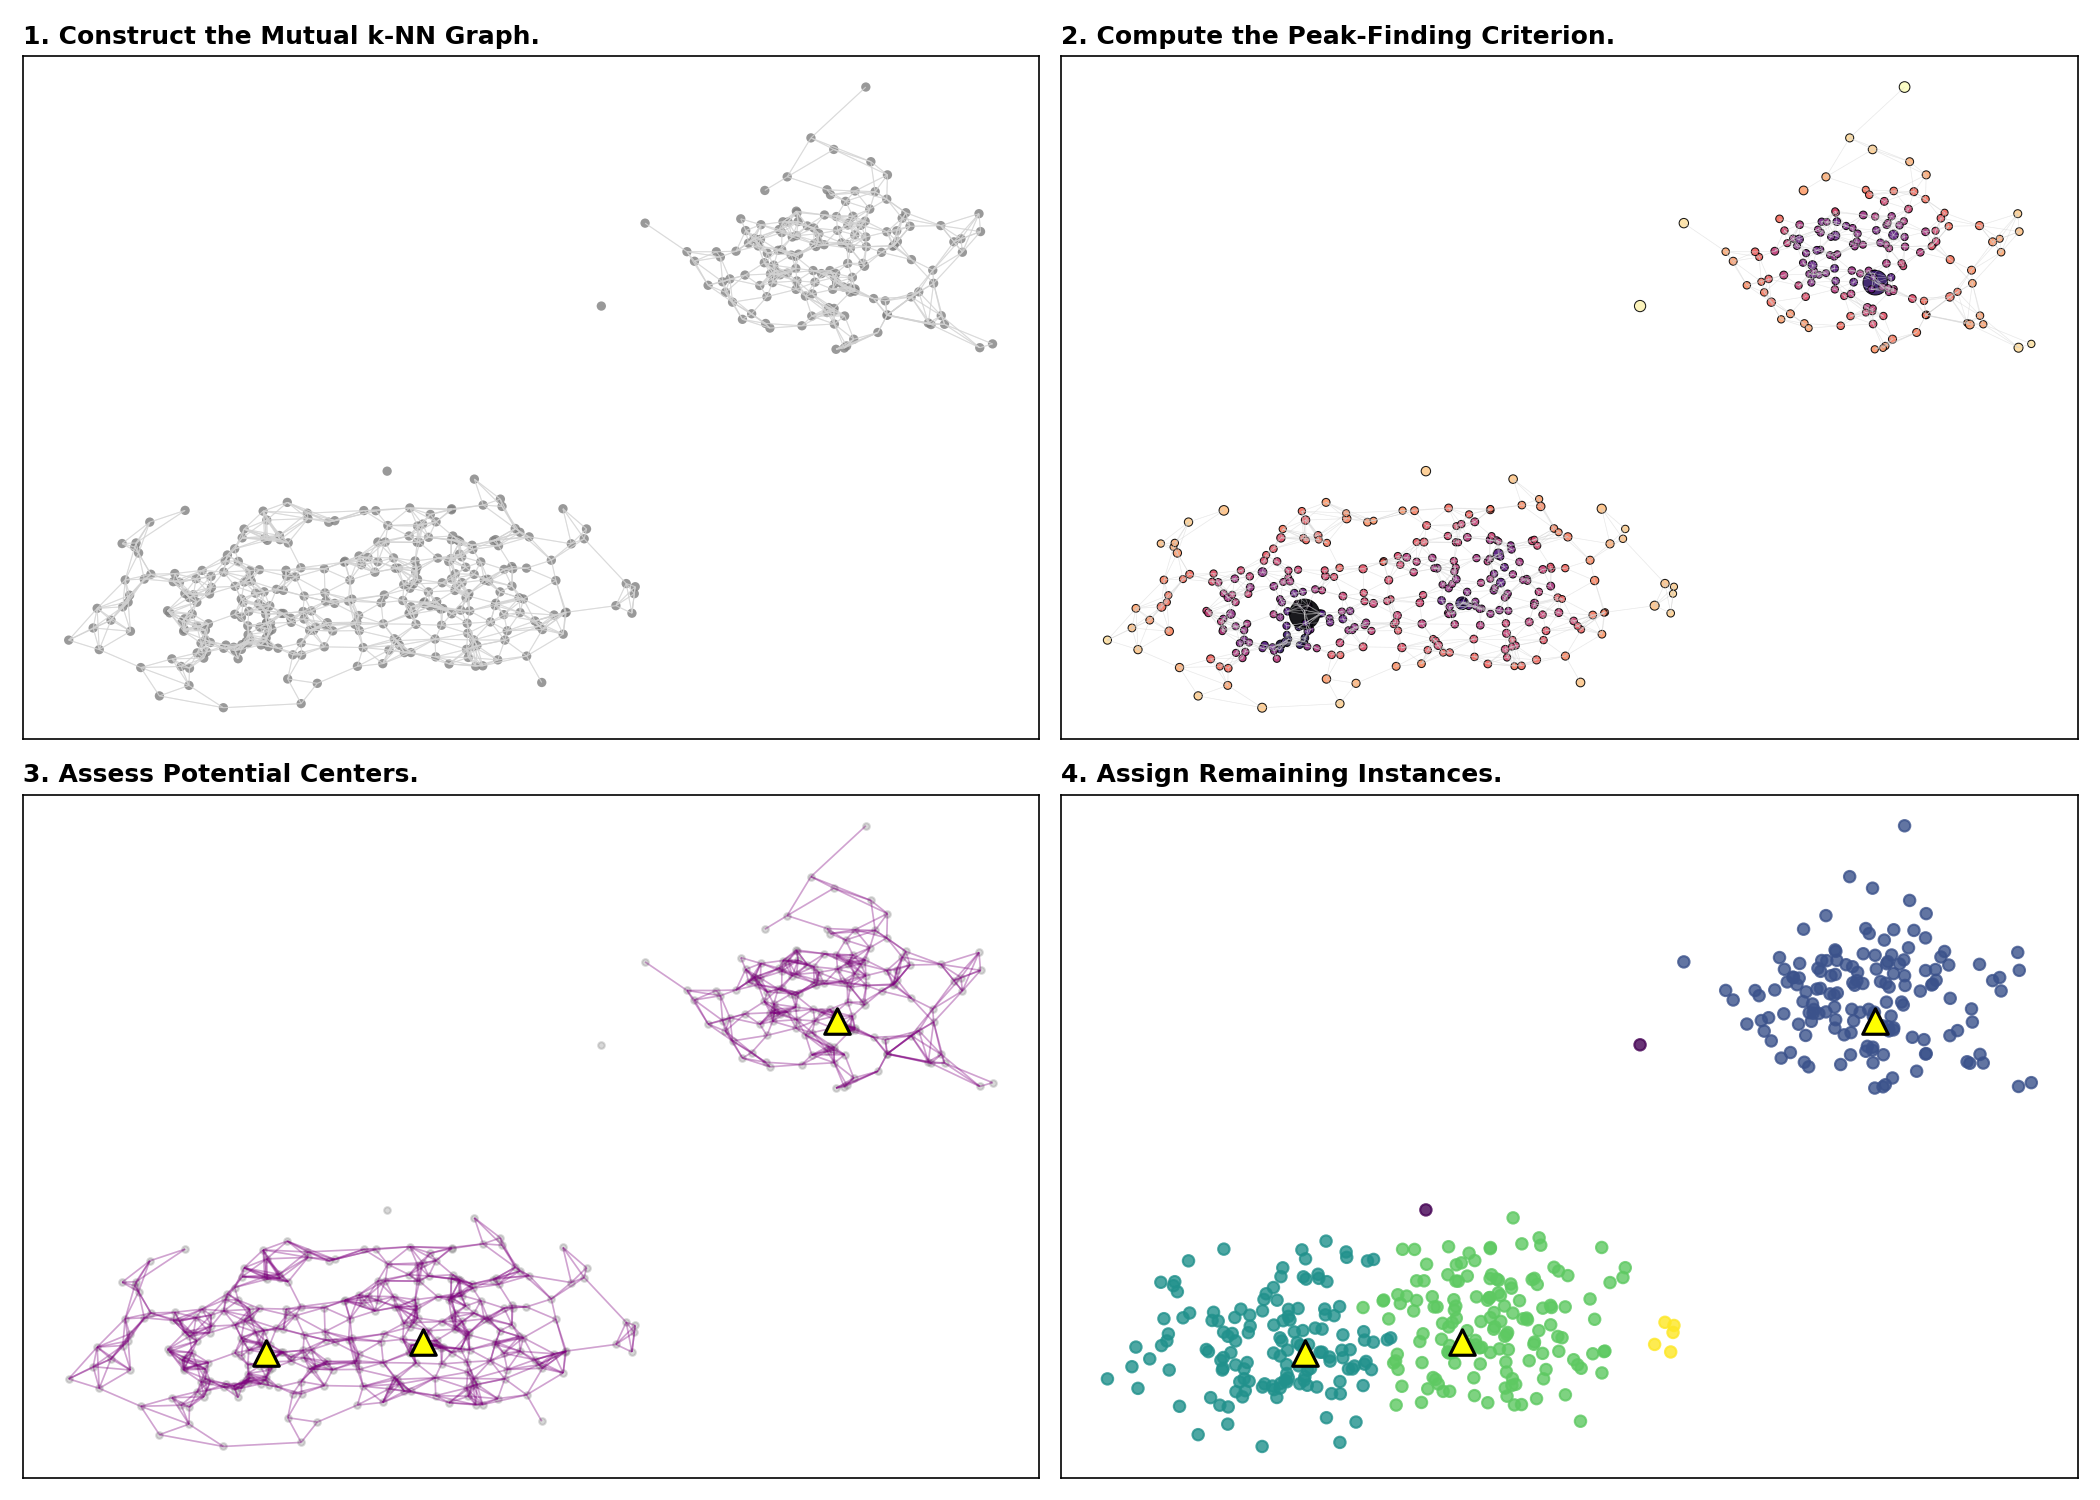
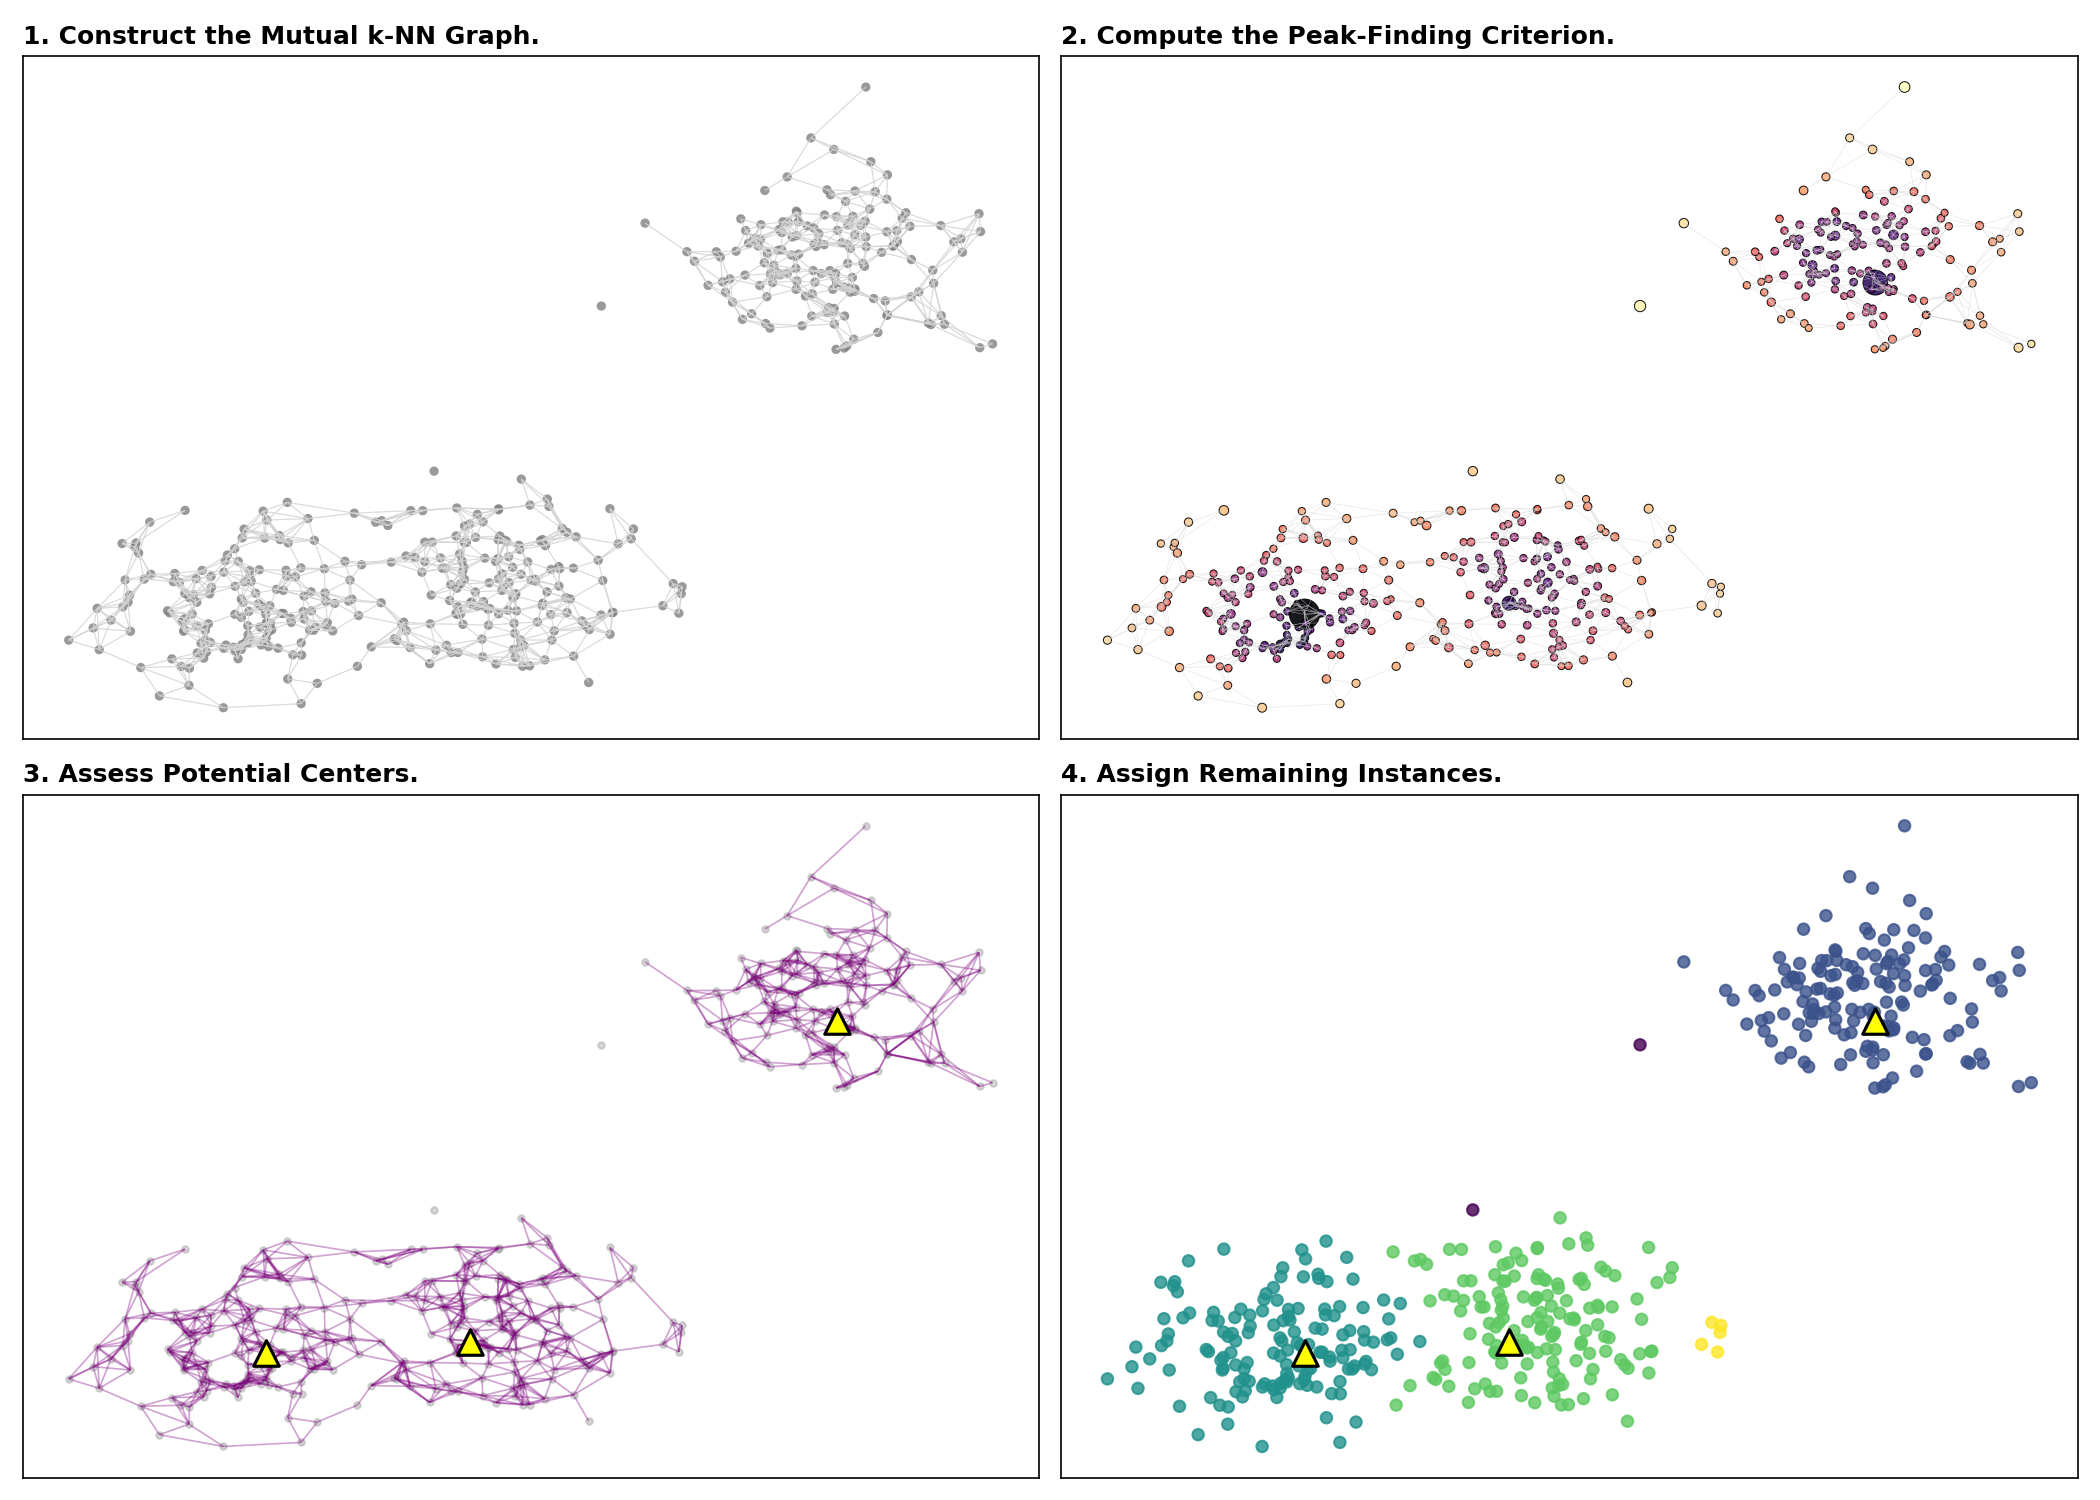
update toy data

diff --git a/examples/basic_clustering.py b/examples/basic_clustering.py
@@ -15,7 +15,7 @@ def generate_data(n_per_cluster=150, random_state=42):
     # Cluster 2 (Bottom left)
     c2 = np.random.randn(n_per_cluster, 2) * 0.3 + [-1.0, -0.8]
     # Cluster 3 (Bottom center - close to cluster 2, bridge structure)
-    c3 = np.random.randn(n_per_cluster, 2) * 0.3 + [-0.1, -0.7]
+    c3 = np.random.randn(n_per_cluster, 2) * 0.3 + [0.1, -0.7]
 
     X = np.vstack([c1, c2, c3])
     y_true = np.array([0] * n_per_cluster + [1] * n_per_cluster + [2] * n_per_cluster)

diff --git a/examples/visualization.py b/examples/visualization.py
@@ -29,7 +29,7 @@ def generate_data(n_per_cluster=150, random_state=42):
     # Cluster 2 (Bottom left)
     c2 = np.random.randn(n_per_cluster, 2) * 0.3 + [-1.0, -0.8]
     # Cluster 3 (Bottom center - close to cluster 2, bridge structure)
-    c3 = np.random.randn(n_per_cluster, 2) * 0.3 + [-0.1, -0.7]
+    c3 = np.random.randn(n_per_cluster, 2) * 0.3 + [0.1, -0.7]
 
     X = np.vstack([c1, c2, c3])
     y_true = np.array([0] * n_per_cluster + [1] * n_per_cluster + [2] * n_per_cluster)
